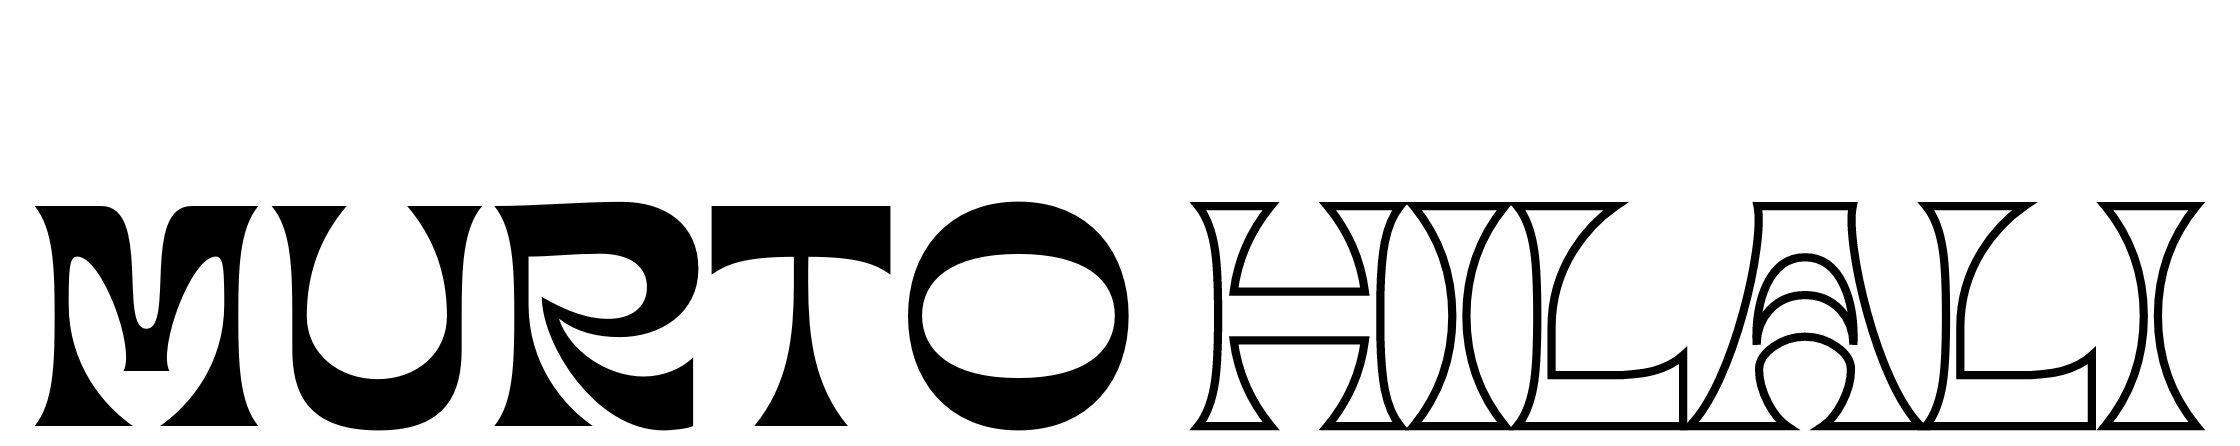
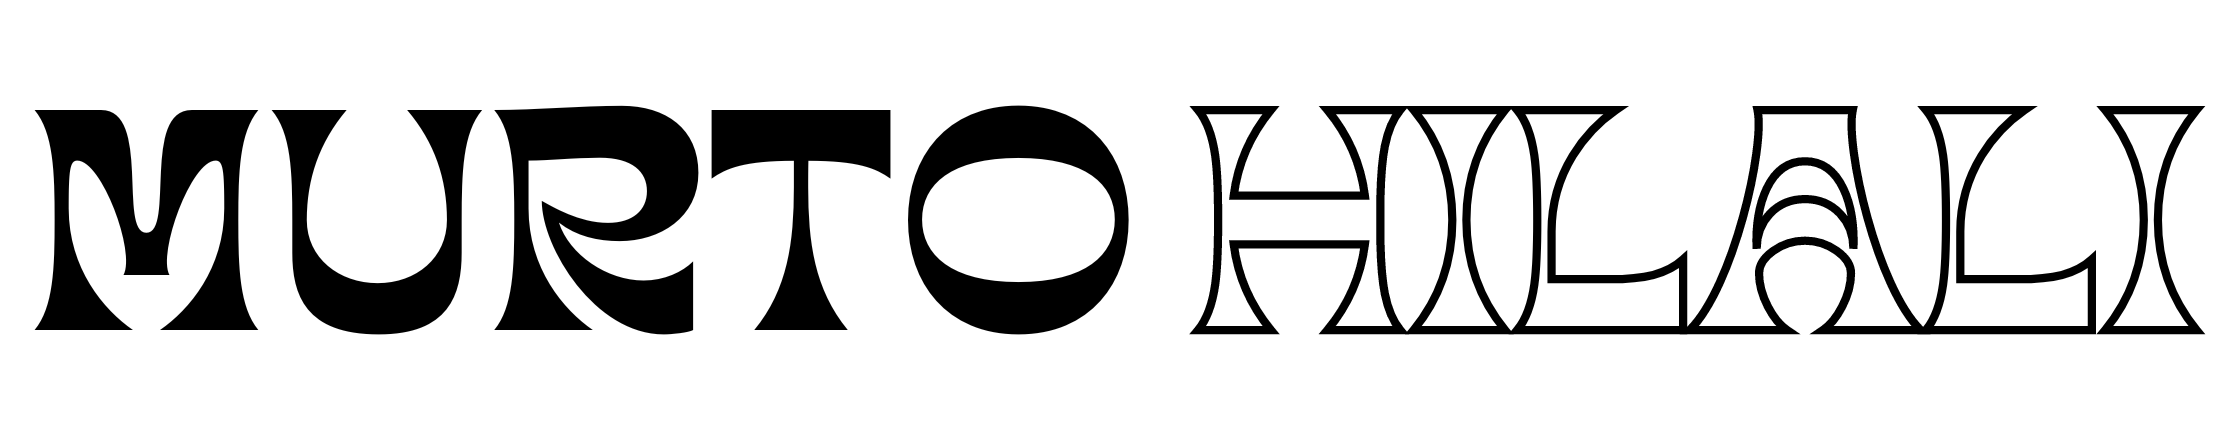
Error, trying again pt.4

Changed region(s): [[0.0, 0.2369, 1.0, 0.9772]]

diff --git a/_includes/prohead.html b/_includes/prohead.html
@@ -1,4 +1,4 @@
-<div style="margin-bottom: 30px;">
+<div>
     <a href="/" style="display: block;">
         <img src="/murtohilali.github.io/img/author/website-header-name.png" width="100%" height="100%" alt="{{ site.title }}">
     </a>

diff --git a/_sass/_main.scss b/_sass/_main.scss
@@ -1007,7 +1007,6 @@ $link-color: var(--link-color);
 
 // The animation image index
 .img-index {
-  width: 90px;
   margin-bottom: 20px;
   border-radius: 50%;
 }
